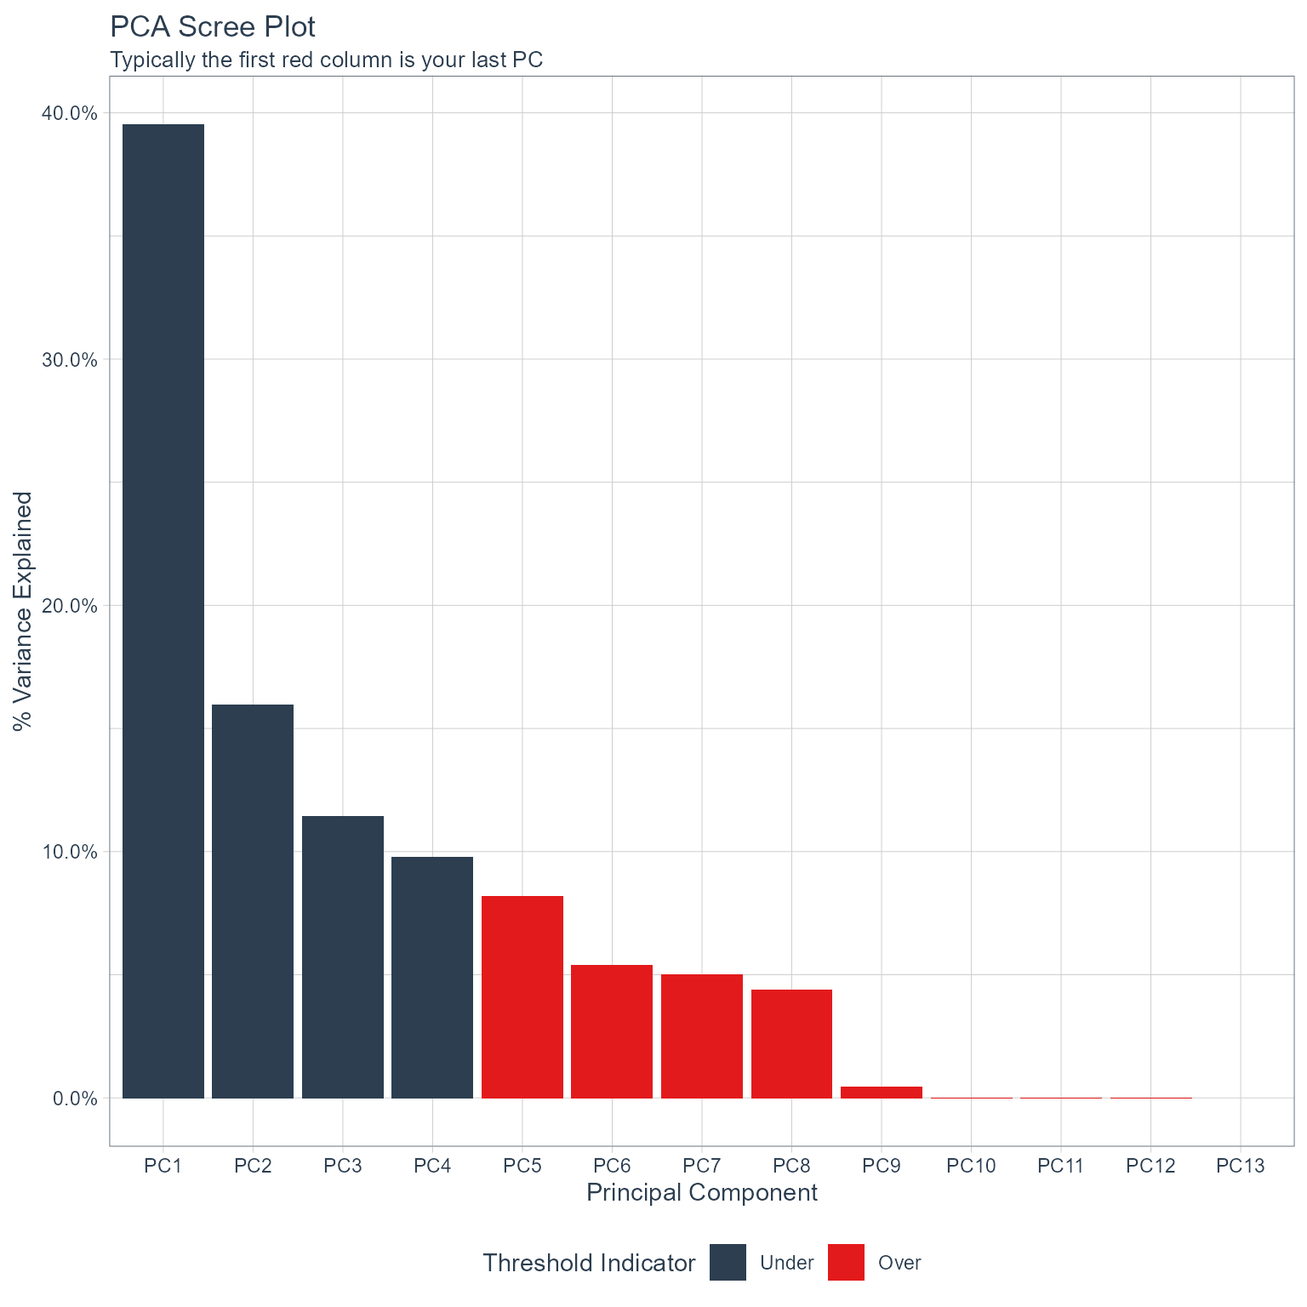
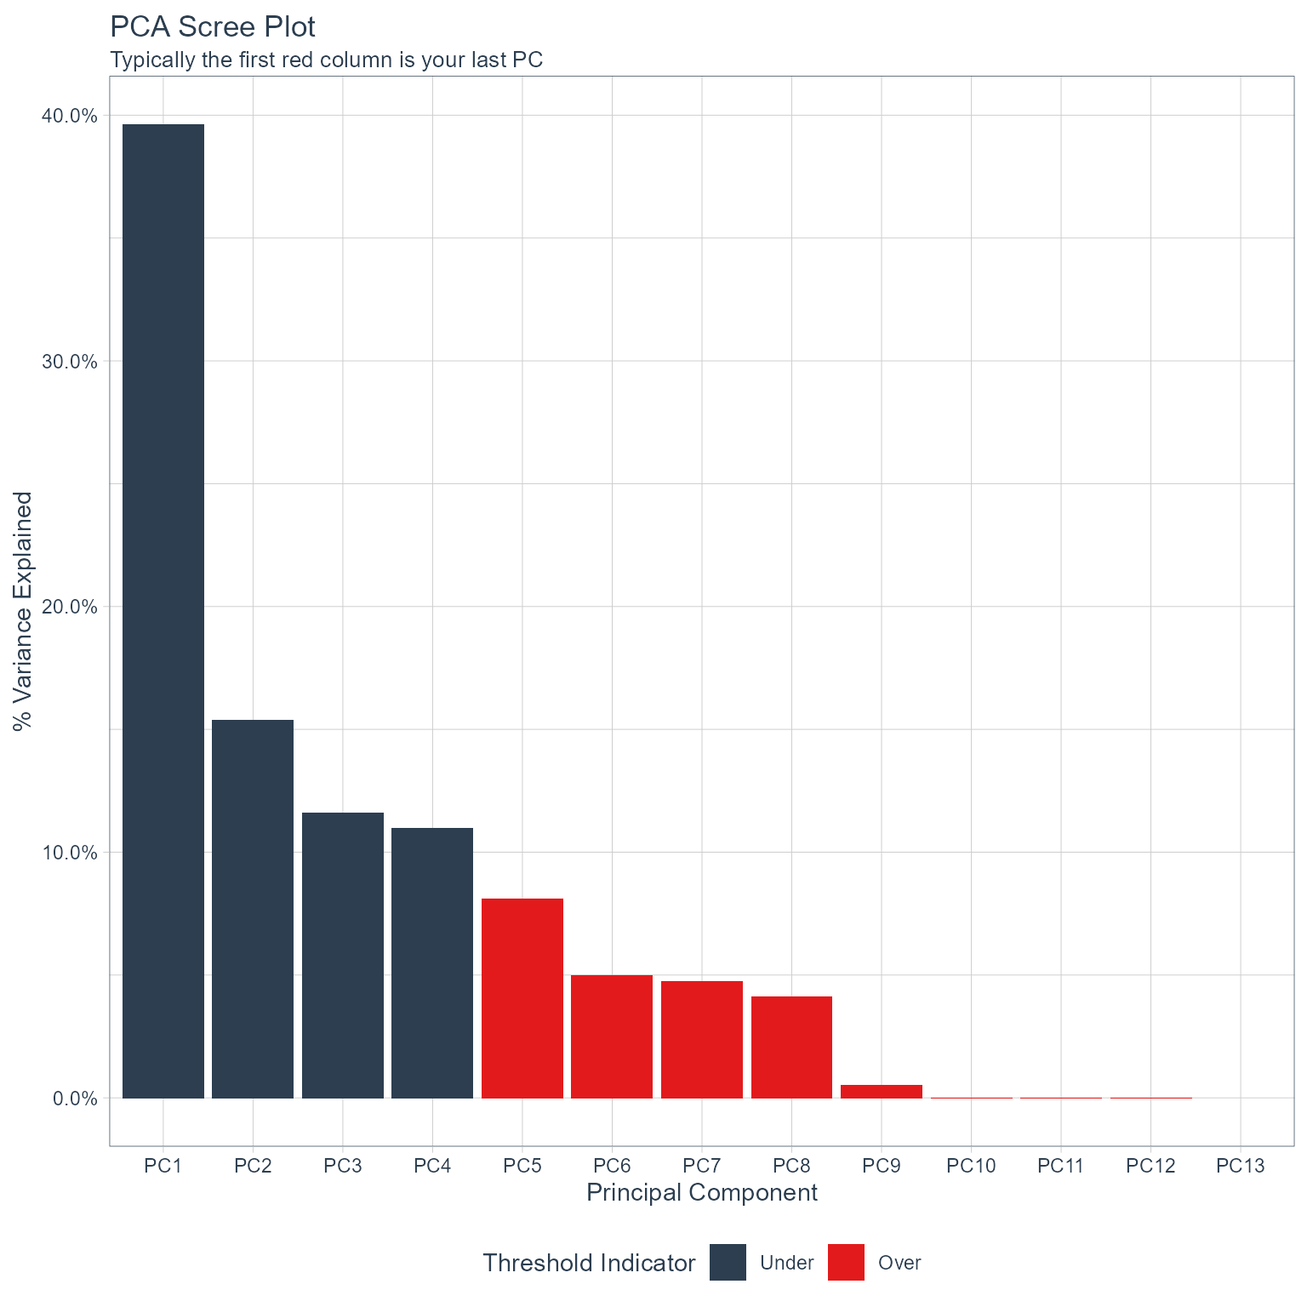
updates

diff --git a/docs/articles/getting-started.html b/docs/articles/getting-started.html
@@ -172,12 +172,12 @@
 <span class="co">#&gt; # A tibble: 6 x 2</span>
 <span class="co">#&gt;   date_col            value</span>
 <span class="co">#&gt;   &lt;dttm&gt;              &lt;int&gt;</span>
-<span class="co">#&gt; 1 2014-06-01 00:00:00  1753</span>
-<span class="co">#&gt; 2 2016-08-01 00:00:00  1537</span>
-<span class="co">#&gt; 3 2019-07-01 00:00:00  1474</span>
-<span class="co">#&gt; 4 2020-11-01 00:00:00   313</span>
-<span class="co">#&gt; 5 2013-07-01 00:00:00  1917</span>
-<span class="co">#&gt; 6 2013-10-01 00:00:00  1950</span></code></pre></div>
+<span class="co">#&gt; 1 2015-05-01 00:00:00  1544</span>
+<span class="co">#&gt; 2 2015-12-01 00:00:00  1571</span>
+<span class="co">#&gt; 3 2019-01-01 00:00:00  1631</span>
+<span class="co">#&gt; 4 2014-12-01 00:00:00  1757</span>
+<span class="co">#&gt; 5 2017-10-01 00:00:00  1614</span>
+<span class="co">#&gt; 6 2020-07-01 00:00:00  1056</span></code></pre></div>
 </div>
 <div id="initial-recipe" class="section level2">
 <h2 class="hasAnchor">
@@ -204,25 +204,25 @@
 <span class="fu"><a href="../reference/get_juiced_data.html">get_juiced_data</a></span><span class="op">(</span><span class="va">rec_obj</span><span class="op">)</span> <span class="op">%&gt;%</span> <span class="fu"><a href="https://pillar.r-lib.org/reference/glimpse.html">glimpse</a></span><span class="op">(</span><span class="op">)</span>
 <span class="co">#&gt; Rows: 76</span>
 <span class="co">#&gt; Columns: 20</span>
-<span class="co">#&gt; $ date_col           &lt;dttm&gt; 2014-06-01, 2016-08-01, 2019-07-01, 2020-11-01, 20~</span>
-<span class="co">#&gt; $ value              &lt;int&gt; 1753, 1537, 1474, 313, 1917, 1950, 1630, 1544, 1190~</span>
-<span class="co">#&gt; $ date_col_index.num &lt;dbl&gt; 1401580800, 1470009600, 1561939200, 1604188800, 137~</span>
-<span class="co">#&gt; $ date_col_year      &lt;int&gt; 2014, 2016, 2019, 2020, 2013, 2013, 2015, 2016, 202~</span>
-<span class="co">#&gt; $ date_col_half      &lt;int&gt; 1, 2, 2, 2, 2, 2, 1, 1, 2, 1, 1, 1, 1, 1, 1, 2, 1, ~</span>
-<span class="co">#&gt; $ date_col_quarter   &lt;int&gt; 2, 3, 3, 4, 3, 4, 2, 2, 3, 2, 2, 2, 1, 1, 2, 4, 2, ~</span>
-<span class="co">#&gt; $ date_col_month     &lt;int&gt; 6, 8, 7, 11, 7, 10, 6, 6, 9, 5, 4, 4, 1, 3, 4, 10, ~</span>
-<span class="co">#&gt; $ date_col_month.lbl &lt;ord&gt; June, August, July, November, July, October, June, ~</span>
+<span class="co">#&gt; $ date_col           &lt;dttm&gt; 2015-05-01, 2015-12-01, 2019-01-01, 2014-12-01, 20~</span>
+<span class="co">#&gt; $ value              &lt;int&gt; 1544, 1571, 1631, 1757, 1614, 1056, 1525, 1756, 160~</span>
+<span class="co">#&gt; $ date_col_index.num &lt;dbl&gt; 1430438400, 1448928000, 1546300800, 1417392000, 150~</span>
+<span class="co">#&gt; $ date_col_year      &lt;int&gt; 2015, 2015, 2019, 2014, 2017, 2020, 2019, 2018, 201~</span>
+<span class="co">#&gt; $ date_col_half      &lt;int&gt; 1, 2, 1, 2, 2, 2, 2, 1, 2, 2, 2, 2, 2, 2, 1, 1, 1, ~</span>
+<span class="co">#&gt; $ date_col_quarter   &lt;int&gt; 2, 4, 1, 4, 4, 3, 4, 1, 3, 3, 3, 4, 3, 3, 1, 2, 1, ~</span>
+<span class="co">#&gt; $ date_col_month     &lt;int&gt; 5, 12, 1, 12, 10, 7, 10, 1, 8, 7, 9, 11, 9, 9, 2, 6~</span>
+<span class="co">#&gt; $ date_col_month.lbl &lt;ord&gt; May, December, January, December, October, July, Oc~</span>
 <span class="co">#&gt; $ date_col_day       &lt;int&gt; 1, 1, 1, 1, 1, 1, 1, 1, 1, 1, 1, 1, 1, 1, 1, 1, 1, ~</span>
-<span class="co">#&gt; $ date_col_wday      &lt;int&gt; 1, 2, 2, 1, 2, 3, 2, 4, 3, 6, 1, 3, 4, 7, 4, 5, 4, ~</span>
-<span class="co">#&gt; $ date_col_wday.lbl  &lt;ord&gt; Sunday, Monday, Monday, Sunday, Monday, Tuesday, Mo~</span>
+<span class="co">#&gt; $ date_col_wday      &lt;int&gt; 6, 3, 3, 2, 1, 4, 3, 2, 4, 4, 1, 3, 6, 1, 4, 7, 5, ~</span>
+<span class="co">#&gt; $ date_col_wday.lbl  &lt;ord&gt; Friday, Tuesday, Tuesday, Monday, Sunday, Wednesday~</span>
 <span class="co">#&gt; $ date_col_mday      &lt;int&gt; 1, 1, 1, 1, 1, 1, 1, 1, 1, 1, 1, 1, 1, 1, 1, 1, 1, ~</span>
-<span class="co">#&gt; $ date_col_qday      &lt;int&gt; 62, 32, 1, 32, 1, 1, 62, 62, 63, 31, 1, 1, 1, 60, 1~</span>
-<span class="co">#&gt; $ date_col_yday      &lt;int&gt; 152, 214, 182, 306, 182, 274, 152, 153, 245, 122, 9~</span>
-<span class="co">#&gt; $ date_col_mweek     &lt;int&gt; 5, 6, 6, 5, 6, 5, 6, 5, 6, 5, 5, 6, 5, 5, 5, 5, 5, ~</span>
-<span class="co">#&gt; $ date_col_week      &lt;int&gt; 22, 31, 26, 44, 26, 40, 22, 22, 35, 18, 13, 13, 1, ~</span>
-<span class="co">#&gt; $ date_col_week2     &lt;int&gt; 0, 1, 0, 0, 0, 0, 0, 0, 1, 0, 1, 1, 1, 1, 1, 0, 0, ~</span>
-<span class="co">#&gt; $ date_col_week3     &lt;int&gt; 1, 1, 2, 2, 2, 1, 1, 1, 2, 0, 1, 1, 1, 0, 1, 1, 0, ~</span>
-<span class="co">#&gt; $ date_col_week4     &lt;int&gt; 2, 3, 2, 0, 2, 0, 2, 2, 3, 2, 1, 1, 1, 1, 1, 0, 2, ~</span>
+<span class="co">#&gt; $ date_col_qday      &lt;int&gt; 31, 62, 1, 62, 1, 1, 1, 1, 32, 1, 63, 32, 63, 63, 3~</span>
+<span class="co">#&gt; $ date_col_yday      &lt;int&gt; 121, 335, 1, 335, 274, 183, 274, 1, 213, 182, 244, ~</span>
+<span class="co">#&gt; $ date_col_mweek     &lt;int&gt; 5, 5, 6, 6, 5, 5, 5, 6, 5, 5, 5, 6, 5, 5, 5, 5, 5, ~</span>
+<span class="co">#&gt; $ date_col_week      &lt;int&gt; 18, 48, 1, 48, 40, 27, 40, 1, 31, 26, 35, 44, 35, 3~</span>
+<span class="co">#&gt; $ date_col_week2     &lt;int&gt; 0, 0, 1, 0, 0, 1, 0, 1, 1, 0, 1, 0, 1, 1, 1, 0, 1, ~</span>
+<span class="co">#&gt; $ date_col_week3     &lt;int&gt; 0, 0, 1, 0, 1, 0, 1, 1, 1, 2, 2, 2, 2, 2, 2, 1, 1, ~</span>
+<span class="co">#&gt; $ date_col_week4     &lt;int&gt; 2, 0, 1, 0, 0, 3, 0, 1, 3, 2, 3, 0, 3, 3, 1, 2, 1, ~</span>
 <span class="co">#&gt; $ date_col_mday7     &lt;int&gt; 1, 1, 1, 1, 1, 1, 1, 1, 1, 1, 1, 1, 1, 1, 1, 1, 1, ~</span></code></pre></div>
 <p>Now that we have out initial recipe we can use the <code><a href="../reference/pca_your_recipe.html">pca_your_recipe()</a></code> function.</p>
 <div class="sourceCode" id="cb6"><pre class="downlit sourceCode r">
@@ -284,18 +284,18 @@
 <div class="sourceCode" id="cb8"><pre class="downlit sourceCode r">
 <code class="sourceCode R"><span class="va">pca_list</span><span class="op">$</span><span class="va">variable_loadings</span>
 <span class="co">#&gt; # A tibble: 169 x 4</span>
-<span class="co">#&gt;    terms                value component id       </span>
-<span class="co">#&gt;    &lt;chr&gt;                &lt;dbl&gt; &lt;chr&gt;     &lt;chr&gt;    </span>
-<span class="co">#&gt;  1 date_col_index.num  0.0823 PC1       pca_BO4fl</span>
-<span class="co">#&gt;  2 date_col_year       0.0288 PC1       pca_BO4fl</span>
-<span class="co">#&gt;  3 date_col_half       0.388  PC1       pca_BO4fl</span>
-<span class="co">#&gt;  4 date_col_quarter    0.434  PC1       pca_BO4fl</span>
-<span class="co">#&gt;  5 date_col_month      0.437  PC1       pca_BO4fl</span>
-<span class="co">#&gt;  6 date_col_wday      -0.0871 PC1       pca_BO4fl</span>
-<span class="co">#&gt;  7 date_col_qday       0.0406 PC1       pca_BO4fl</span>
-<span class="co">#&gt;  8 date_col_yday       0.437  PC1       pca_BO4fl</span>
-<span class="co">#&gt;  9 date_col_mweek      0.0380 PC1       pca_BO4fl</span>
-<span class="co">#&gt; 10 date_col_week       0.437  PC1       pca_BO4fl</span>
+<span class="co">#&gt;    terms                 value component id       </span>
+<span class="co">#&gt;    &lt;chr&gt;                 &lt;dbl&gt; &lt;chr&gt;     &lt;chr&gt;    </span>
+<span class="co">#&gt;  1 date_col_index.num  0.0842  PC1       pca_H6ym8</span>
+<span class="co">#&gt;  2 date_col_year       0.0306  PC1       pca_H6ym8</span>
+<span class="co">#&gt;  3 date_col_half       0.384   PC1       pca_H6ym8</span>
+<span class="co">#&gt;  4 date_col_quarter    0.430   PC1       pca_H6ym8</span>
+<span class="co">#&gt;  5 date_col_month      0.438   PC1       pca_H6ym8</span>
+<span class="co">#&gt;  6 date_col_wday      -0.0745  PC1       pca_H6ym8</span>
+<span class="co">#&gt;  7 date_col_qday       0.141   PC1       pca_H6ym8</span>
+<span class="co">#&gt;  8 date_col_yday       0.438   PC1       pca_H6ym8</span>
+<span class="co">#&gt;  9 date_col_mweek      0.00690 PC1       pca_H6ym8</span>
+<span class="co">#&gt; 10 date_col_week       0.438   PC1       pca_H6ym8</span>
 <span class="co">#&gt; # ... with 159 more rows</span></code></pre></div>
 </div>
 <div id="variable-variance" class="section level2">
@@ -306,16 +306,16 @@
 <span class="co">#&gt; # A tibble: 52 x 4</span>
 <span class="co">#&gt;    terms       value component id       </span>
 <span class="co">#&gt;    &lt;chr&gt;       &lt;dbl&gt;     &lt;int&gt; &lt;chr&gt;    </span>
-<span class="co">#&gt;  1 variance 5.14             1 pca_BO4fl</span>
-<span class="co">#&gt;  2 variance 2.07             2 pca_BO4fl</span>
-<span class="co">#&gt;  3 variance 1.48             3 pca_BO4fl</span>
-<span class="co">#&gt;  4 variance 1.27             4 pca_BO4fl</span>
-<span class="co">#&gt;  5 variance 1.06             5 pca_BO4fl</span>
-<span class="co">#&gt;  6 variance 0.698            6 pca_BO4fl</span>
-<span class="co">#&gt;  7 variance 0.650            7 pca_BO4fl</span>
-<span class="co">#&gt;  8 variance 0.569            8 pca_BO4fl</span>
-<span class="co">#&gt;  9 variance 0.0572           9 pca_BO4fl</span>
-<span class="co">#&gt; 10 variance 0.000235        10 pca_BO4fl</span>
+<span class="co">#&gt;  1 variance 5.15             1 pca_H6ym8</span>
+<span class="co">#&gt;  2 variance 2.00             2 pca_H6ym8</span>
+<span class="co">#&gt;  3 variance 1.51             3 pca_H6ym8</span>
+<span class="co">#&gt;  4 variance 1.43             4 pca_H6ym8</span>
+<span class="co">#&gt;  5 variance 1.05             5 pca_H6ym8</span>
+<span class="co">#&gt;  6 variance 0.646            6 pca_H6ym8</span>
+<span class="co">#&gt;  7 variance 0.616            7 pca_H6ym8</span>
+<span class="co">#&gt;  8 variance 0.535            8 pca_H6ym8</span>
+<span class="co">#&gt;  9 variance 0.0684           9 pca_H6ym8</span>
+<span class="co">#&gt; 10 variance 0.000269        10 pca_H6ym8</span>
 <span class="co">#&gt; # ... with 42 more rows</span></code></pre></div>
 </div>
 <div id="pca-estimates" class="section level2">
@@ -349,28 +349,28 @@
 <code class="sourceCode R"><span class="va">pca_list</span><span class="op">$</span><span class="va">pca_juiced_estimates</span> <span class="op">%&gt;%</span> <span class="fu"><a href="https://pillar.r-lib.org/reference/glimpse.html">glimpse</a></span><span class="op">(</span><span class="op">)</span>
 <span class="co">#&gt; Rows: 76</span>
 <span class="co">#&gt; Columns: 9</span>
-<span class="co">#&gt; $ date_col           &lt;dttm&gt; 2014-06-01, 2016-08-01, 2019-07-01, 2020-11-01, 20~</span>
-<span class="co">#&gt; $ value              &lt;dbl&gt; 0.77804258, -0.01828805, -0.25055115, -4.53082829, ~</span>
-<span class="co">#&gt; $ date_col_month.lbl &lt;ord&gt; June, August, July, November, July, October, June, ~</span>
-<span class="co">#&gt; $ date_col_wday.lbl  &lt;ord&gt; Sunday, Monday, Monday, Sunday, Monday, Tuesday, Mo~</span>
-<span class="co">#&gt; $ PC1                &lt;dbl&gt; -0.3938037, 1.0920486, 1.3691626, 3.5636635, 1.0775~</span>
-<span class="co">#&gt; $ PC2                &lt;dbl&gt; 1.87947514, -0.07541373, -1.92168450, -1.89610979, ~</span>
-<span class="co">#&gt; $ PC3                &lt;dbl&gt; 0.32466149, 2.90373162, 2.08872128, -0.51939894, 2.~</span>
-<span class="co">#&gt; $ PC4                &lt;dbl&gt; 1.08551618, 0.96185850, -0.80624732, -0.38828880, -~</span>
-<span class="co">#&gt; $ PC5                &lt;dbl&gt; -0.656311699, -0.108571681, -1.308270427, -1.297358~</span>
+<span class="co">#&gt; $ date_col           &lt;dttm&gt; 2015-05-01, 2015-12-01, 2019-01-01, 2014-12-01, 20~</span>
+<span class="co">#&gt; $ value              &lt;dbl&gt; -0.06597582, 0.04454041, 0.29013204, 0.80587446, 0.~</span>
+<span class="co">#&gt; $ date_col_month.lbl &lt;ord&gt; May, December, January, December, October, July, Oc~</span>
+<span class="co">#&gt; $ date_col_wday.lbl  &lt;ord&gt; Friday, Tuesday, Tuesday, Monday, Sunday, Wednesday~</span>
+<span class="co">#&gt; $ PC1                &lt;dbl&gt; -0.9429684, 3.6892980, -3.1497175, 3.6926008, 2.768~</span>
+<span class="co">#&gt; $ PC2                &lt;dbl&gt; 0.82490440, 1.18641336, -1.54030607, 1.96328082, -0~</span>
+<span class="co">#&gt; $ PC3                &lt;dbl&gt; 1.6824626, 1.8210835, -1.0250387, 0.6191746, 0.2554~</span>
+<span class="co">#&gt; $ PC4                &lt;dbl&gt; -0.39639227, 0.61073163, 1.60228797, 1.80229010, 1.~</span>
+<span class="co">#&gt; $ PC5                &lt;dbl&gt; -0.1971648, 0.3777487, 0.3884283, 1.0808513, -1.081~</span>
 
 <span class="va">pca_list</span><span class="op">$</span><span class="va">pca_baked_data</span> <span class="op">%&gt;%</span> <span class="fu"><a href="https://pillar.r-lib.org/reference/glimpse.html">glimpse</a></span><span class="op">(</span><span class="op">)</span>
 <span class="co">#&gt; Rows: 95</span>
 <span class="co">#&gt; Columns: 9</span>
 <span class="co">#&gt; $ date_col           &lt;dttm&gt; 2013-01-01, 2013-02-01, 2013-03-01, 2013-04-01, 20~</span>
-<span class="co">#&gt; $ value              &lt;dbl&gt; 1.9909721, 0.6526942, 0.9365714, 1.1909548, 1.79188~</span>
+<span class="co">#&gt; $ value              &lt;dbl&gt; 2.1361625, 0.6503331, 0.9655090, 1.2479394, 1.91513~</span>
 <span class="co">#&gt; $ date_col_month.lbl &lt;ord&gt; January, February, March, April, May, June, July, A~</span>
 <span class="co">#&gt; $ date_col_wday.lbl  &lt;ord&gt; Tuesday, Friday, Friday, Monday, Wednesday, Saturda~</span>
-<span class="co">#&gt; $ PC1                &lt;dbl&gt; -3.2686461, -3.0408033, -2.6684865, -1.6954635, -1.~</span>
-<span class="co">#&gt; $ PC2                &lt;dbl&gt; 1.7888224, 1.6891008, 2.4909640, 1.8433062, 2.50125~</span>
-<span class="co">#&gt; $ PC3                &lt;dbl&gt; 2.0987694, 0.4707430, -0.6294057, 2.2145316, -0.357~</span>
-<span class="co">#&gt; $ PC4                &lt;dbl&gt; -1.12724278, -1.28416085, 0.74923569, -0.93253454, ~</span>
-<span class="co">#&gt; $ PC5                &lt;dbl&gt; -1.32339805, 1.11748843, 0.82787730, -1.48824820, -~</span></code></pre></div>
+<span class="co">#&gt; $ PC1                &lt;dbl&gt; -3.4470093, -3.0308358, -2.4990144, -1.8830241, -0.~</span>
+<span class="co">#&gt; $ PC2                &lt;dbl&gt; 2.0693021, 1.9297845, 2.1700916, 2.1407364, 2.10987~</span>
+<span class="co">#&gt; $ PC3                &lt;dbl&gt; -0.98523185, 0.02223507, 1.75763564, -1.12446285, 1~</span>
+<span class="co">#&gt; $ PC4                &lt;dbl&gt; 1.53253801, -0.86308505, -0.81847751, 1.74135259, 0~</span>
+<span class="co">#&gt; $ PC5                &lt;dbl&gt; -0.18758467, -1.06682529, 0.61333286, -0.03356411, ~</span></code></pre></div>
 </div>
 <div id="roatation-data" class="section level2">
 <h2 class="hasAnchor">
@@ -379,19 +379,19 @@
 <code class="sourceCode R"><span class="va">pca_list</span><span class="op">$</span><span class="va">pca_rotation_df</span> <span class="op">%&gt;%</span> <span class="fu"><a href="https://pillar.r-lib.org/reference/glimpse.html">glimpse</a></span><span class="op">(</span><span class="op">)</span>
 <span class="co">#&gt; Rows: 13</span>
 <span class="co">#&gt; Columns: 13</span>
-<span class="co">#&gt; $ PC1  &lt;dbl&gt; 0.08226600, 0.02881166, 0.38764733, 0.43422248, 0.43706570, -0.08~</span>
-<span class="co">#&gt; $ PC2  &lt;dbl&gt; -0.652949041, -0.664049552, -0.076455120, 0.001957355, 0.04118771~</span>
-<span class="co">#&gt; $ PC3  &lt;dbl&gt; -0.171102025, -0.171763777, 0.200379282, 0.012747155, -0.00837411~</span>
-<span class="co">#&gt; $ PC4  &lt;dbl&gt; 0.14066314, 0.13377795, -0.09639989, -0.11283715, 0.06787245, -0.~</span>
-<span class="co">#&gt; $ PC5  &lt;dbl&gt; -0.10005126, -0.11010153, 0.16338434, 0.02405499, 0.07255895, 0.7~</span>
-<span class="co">#&gt; $ PC6  &lt;dbl&gt; -0.04563676, -0.04857831, 0.27524901, 0.01133568, 0.01804531, -0.~</span>
-<span class="co">#&gt; $ PC7  &lt;dbl&gt; 0.015327881, 0.013250207, -0.178935072, -0.122769428, 0.013964112~</span>
-<span class="co">#&gt; $ PC8  &lt;dbl&gt; 0.04118750, 0.03794398, 0.09480648, 0.02043719, 0.02744065, 0.411~</span>
-<span class="co">#&gt; $ PC9  &lt;dbl&gt; 0.007670235, -0.019180018, -0.806822424, 0.267260616, 0.214615759~</span>
-<span class="co">#&gt; $ PC10 &lt;dbl&gt; 0.0139162901, -0.0115680654, 0.0011211359, 0.3006883441, 0.375190~</span>
-<span class="co">#&gt; $ PC11 &lt;dbl&gt; 0.0230199329, -0.0235530484, 0.0013053281, 0.0510834153, -0.66638~</span>
-<span class="co">#&gt; $ PC12 &lt;dbl&gt; 0.0015317594, -0.0011604337, 0.0033884397, 0.7855086591, -0.40636~</span>
-<span class="co">#&gt; $ PC13 &lt;dbl&gt; -7.092381e-01, 7.026048e-01, 1.162781e-04, 2.966574e-02, 5.933331~</span></code></pre></div>
+<span class="co">#&gt; $ PC1  &lt;dbl&gt; 0.084192699, 0.030599252, 0.383636284, 0.430376763, 0.438138357, ~</span>
+<span class="co">#&gt; $ PC2  &lt;dbl&gt; -0.689490030, -0.701013438, 0.014934431, 0.007819090, 0.039187557~</span>
+<span class="co">#&gt; $ PC3  &lt;dbl&gt; -0.006930050, -0.008397865, -0.245060234, -0.049154170, 0.0126708~</span>
+<span class="co">#&gt; $ PC4  &lt;dbl&gt; 0.01077691, 0.01606744, -0.14143277, 0.03882649, -0.04113644, -0.~</span>
+<span class="co">#&gt; $ PC5  &lt;dbl&gt; 0.11198914, 0.10992340, -0.12105739, -0.14355303, 0.02631582, -0.~</span>
+<span class="co">#&gt; $ PC6  &lt;dbl&gt; 0.007915138, 0.005970555, 0.222607652, 0.014290804, 0.013710866, ~</span>
+<span class="co">#&gt; $ PC7  &lt;dbl&gt; -0.026121663, -0.024870729, 0.206056717, 0.132868600, -0.00761418~</span>
+<span class="co">#&gt; $ PC8  &lt;dbl&gt; 0.008831102, 0.001989429, 0.084524860, 0.060609258, 0.052854405, ~</span>
+<span class="co">#&gt; $ PC9  &lt;dbl&gt; -0.007096726, 0.019559137, 0.811591144, -0.282110475, -0.21589781~</span>
+<span class="co">#&gt; $ PC10 &lt;dbl&gt; 0.0134111307, -0.0103507401, 0.0064413468, 0.3030355696, 0.359879~</span>
+<span class="co">#&gt; $ PC11 &lt;dbl&gt; 0.0213934950, -0.0218344179, -0.0001325279, -0.0184787789, -0.631~</span>
+<span class="co">#&gt; $ PC12 &lt;dbl&gt; 0.0006705181, -0.0003943851, 0.0027989251, 0.7721297392, -0.47544~</span>
+<span class="co">#&gt; $ PC13 &lt;dbl&gt; -7.094350e-01, 7.025719e-01, 9.987182e-05, 2.662994e-02, 7.880030~</span></code></pre></div>
 </div>
 <div id="variance-and-scree-plot" class="section level2">
 <h2 class="hasAnchor">
@@ -401,10 +401,10 @@
 <span class="co">#&gt; Rows: 13</span>
 <span class="co">#&gt; Columns: 6</span>
 <span class="co">#&gt; $ PC              &lt;chr&gt; "PC1", "PC2", "PC3", "PC4", "PC5", "PC6", "PC7", "PC8"~</span>
-<span class="co">#&gt; $ var_explained   &lt;dbl&gt; 3.952266e-01, 1.594030e-01, 1.141182e-01, 9.755633e-02~</span>
-<span class="co">#&gt; $ var_pct_txt     &lt;chr&gt; "39.52%", "15.94%", "11.41%", "9.76%", "8.18%", "5.37%~</span>
-<span class="co">#&gt; $ cum_var_pct     &lt;dbl&gt; 0.3952266, 0.5546296, 0.6687478, 0.7663042, 0.8480889,~</span>
-<span class="co">#&gt; $ cum_var_pct_txt &lt;chr&gt; "39.52%", "55.46%", "66.87%", "76.63%", "84.81%", "90.~</span>
+<span class="co">#&gt; $ var_explained   &lt;dbl&gt; 3.961735e-01, 1.536443e-01, 1.160253e-01, 1.097036e-01~</span>
+<span class="co">#&gt; $ var_pct_txt     &lt;chr&gt; "39.62%", "15.36%", "11.60%", "10.97%", "8.10%", "4.97~</span>
+<span class="co">#&gt; $ cum_var_pct     &lt;dbl&gt; 0.3961735, 0.5498178, 0.6658431, 0.7755467, 0.8565314,~</span>
+<span class="co">#&gt; $ cum_var_pct_txt &lt;chr&gt; "39.62%", "54.98%", "66.58%", "77.55%", "85.65%", "90.~</span>
 <span class="co">#&gt; $ ou_threshold    &lt;fct&gt; Under, Under, Under, Under, Over, Over, Over, Over, Ov~</span></code></pre></div>
 <div class="sourceCode" id="cb14"><pre class="downlit sourceCode r">
 <code class="sourceCode R"><span class="va">pca_list</span><span class="op">$</span><span class="va">pca_variance_scree_plt</span></code></pre></div>

diff --git a/docs/news/index.html b/docs/news/index.html
@@ -141,11 +141,6 @@
 <h1 class="page-header" data-toc-text="development version">
 <a href="#healthyrai-development-version" class="anchor"></a>healthyR.ai (development version)<small> Unreleased </small>
 </h1>
-</div>
-    <div id="healthyrai-002" class="section level1">
-<h1 class="page-header" data-toc-text="0.0.2">
-<a href="#healthyrai-002" class="anchor"></a>healthyR.ai 0.0.2<small> 2021-09-02 </small>
-</h1>
 <div id="breaking-changes" class="section level2">
 <h2 class="hasAnchor">
 <a href="#breaking-changes" class="anchor"></a>Breaking Changes</h2>
@@ -154,6 +149,31 @@
 <div id="new-features" class="section level2">
 <h2 class="hasAnchor">
 <a href="#new-features" class="anchor"></a>New Features</h2>
+<ol>
+<li>Fix <a href='https://github.com/spsanderson/healthyR.ai/issues/61'>#61</a> - Add internal function <code><a href="../reference/hai_data_scale.html">hai_data_scale()</a></code>
+</li>
+<li>Fix <a href='https://github.com/spsanderson/healthyR.ai/issues/63'>#63</a> - Add internal function <code><a href="../reference/hai_data_impute.html">hai_data_impute()</a></code>
+</li>
+</ol>
+</div>
+<div id="minor-fixes-and-improvments" class="section level2">
+<h2 class="hasAnchor">
+<a href="#minor-fixes-and-improvments" class="anchor"></a>Minor Fixes and Improvments</h2>
+<p>None</p>
+</div>
+</div>
+    <div id="healthyrai-002" class="section level1">
+<h1 class="page-header" data-toc-text="0.0.2">
+<a href="#healthyrai-002" class="anchor"></a>healthyR.ai 0.0.2<small> 2021-09-02 </small>
+</h1>
+<div id="breaking-changes-1" class="section level2">
+<h2 class="hasAnchor">
+<a href="#breaking-changes-1" class="anchor"></a>Breaking Changes</h2>
+<p>None</p>
+</div>
+<div id="new-features-1" class="section level2">
+<h2 class="hasAnchor">
+<a href="#new-features-1" class="anchor"></a>New Features</h2>
 <ol>
 <li>Fix <a href='https://github.com/spsanderson/healthyR.ai/issues/22'>#22</a> - Add functions:</li>
 </ol>
@@ -184,22 +204,22 @@
 <h1 class="page-header" data-toc-text="0.0.1">
 <a href="#healthyrai-001" class="anchor"></a>healthyR.ai 0.0.1<small> 2021-08-20 </small>
 </h1>
-<div id="breaking-changes-1" class="section level2">
+<div id="breaking-changes-2" class="section level2">
 <h2 class="hasAnchor">
-<a href="#breaking-changes-1" class="anchor"></a>Breaking Changes</h2>
+<a href="#breaking-changes-2" class="anchor"></a>Breaking Changes</h2>
 <p>None</p>
 </div>
-<div id="new-features-1" class="section level2">
+<div id="new-features-2" class="section level2">
 <h2 class="hasAnchor">
-<a href="#new-features-1" class="anchor"></a>New Features</h2>
+<a href="#new-features-2" class="anchor"></a>New Features</h2>
 <ol>
 <li>Fix <a href='https://github.com/spsanderson/healthyR.ai/issues/9'>#9</a> - Add function <code>hai_control_chart</code>
 </li>
 </ol>
 </div>
-<div id="minor-fixes-and-improvments" class="section level2">
+<div id="minor-fixes-and-improvments-1" class="section level2">
 <h2 class="hasAnchor">
-<a href="#minor-fixes-and-improvments" class="anchor"></a>Minor Fixes and Improvments</h2>
+<a href="#minor-fixes-and-improvments-1" class="anchor"></a>Minor Fixes and Improvments</h2>
 <p>None</p>
 </div>
 </div>

diff --git a/NEWS.md b/NEWS.md
@@ -1,5 +1,15 @@
 # healthyR.ai (development version)
 
+## Breaking Changes
+None
+
+## New Features
+1. Fix #61 - Add internal function `hai_data_scale()`
+2. Fix #63 - Add internal function `hai_data_impute()`
+
+## Minor Fixes and Improvments
+None
+
 # healthyR.ai 0.0.2
 
 ## Breaking Changes
